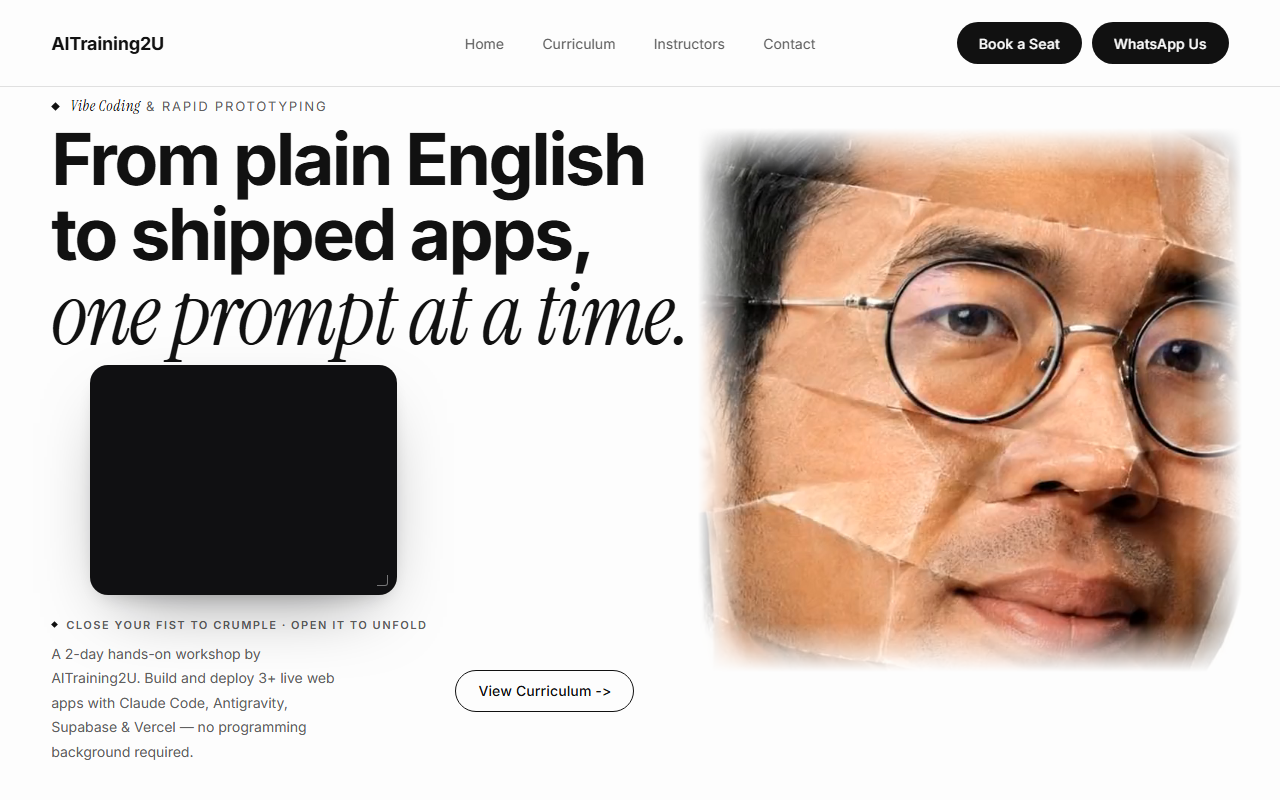
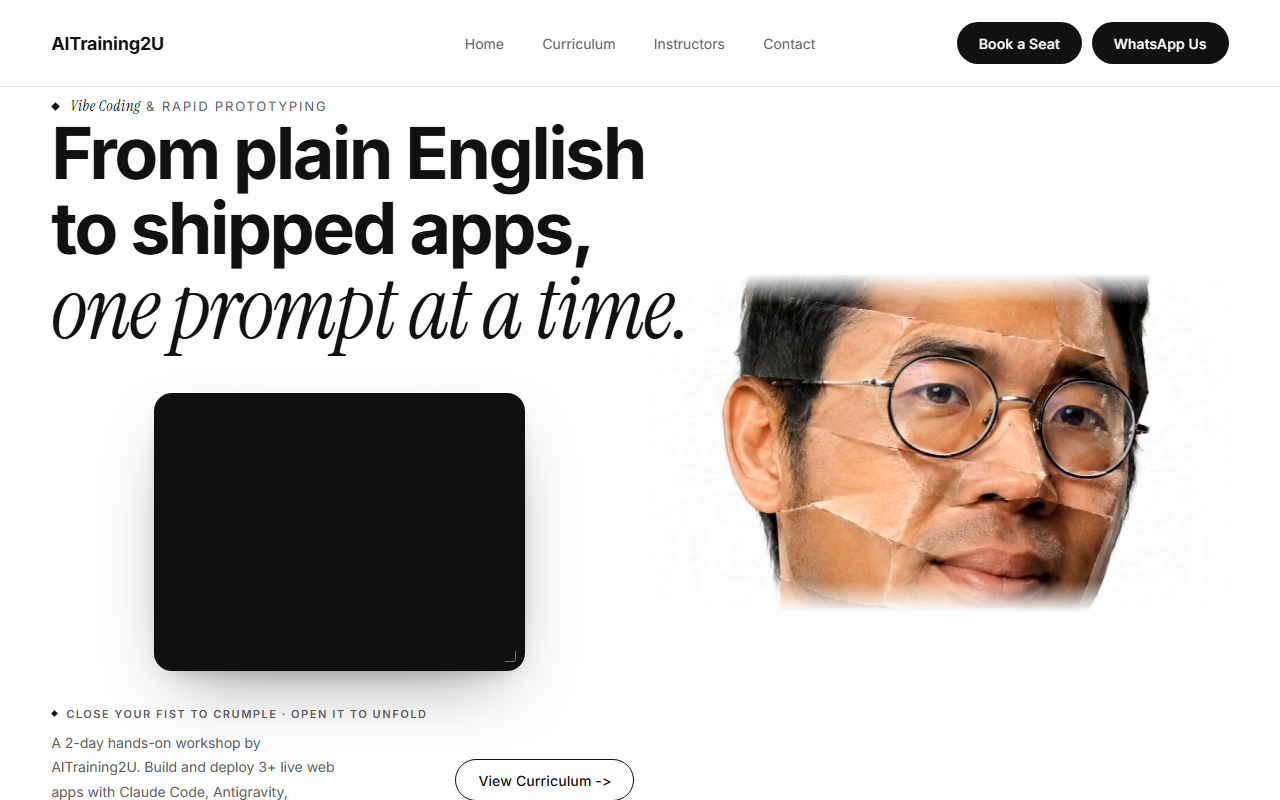
Show the full 16:9 video frame, enlarge and re-space the camera window, and ease gesture/theme transitions

diff --git a/site/style.css b/site/style.css
@@ -135,6 +135,8 @@ a { color: inherit; text-decoration: none; }
 
 .hero__title {
   margin: auto 0; /* vertically centered between tagline and footer */
+  position: relative;
+  z-index: 1; /* headline stays above the video's feathered edge */
   font-size: clamp(40px, 5.6vw, 84px);
   font-weight: 700;
   line-height: 1.04;
@@ -154,10 +156,11 @@ a { color: inherit; text-decoration: none; }
   display: flex;
   flex-direction: column; /* camera on top, copy below */
   align-items: flex-start;
-  gap: 22px;
+  gap: clamp(28px, 4.5vh, 48px); /* breathing room between camera and copy */
+  margin-top: clamp(28px, 5vh, 64px); /* clear the headline above */
 }
 .hero__footer .cam {
-  margin-left: clamp(20px, 3vw, 56px); /* nudge the camera toward the right */
+  margin-left: clamp(48px, 8vw, 150px); /* sit closer to the page center */
 }
 .hero__footer-text {
   display: flex;
@@ -189,8 +192,8 @@ a { color: inherit; text-decoration: none; }
   right: clamp(0px, 3vw, 48px);
   top: 50%;
   transform: translateY(-50%);
-  height: min(68vh, 620px);
-  aspect-ratio: 1 / 1;
+  width: min(47vw, 720px);
+  aspect-ratio: 16 / 9;
   pointer-events: none;
 }
 .hero__media video {
@@ -215,7 +218,7 @@ a { color: inherit; text-decoration: none; }
   position: relative; /* in flow: footer reserves its space */
   z-index: 30;
   flex: none;
-  width: clamp(280px, 24vw, 380px);
+  width: clamp(320px, 29vw, 460px);
   aspect-ratio: 4 / 3;
   border-radius: 18px;
   overflow: hidden;
@@ -559,7 +562,7 @@ a { color: inherit; text-decoration: none; }
     order: 2; /* between title and footer */
     align-self: center;
     height: auto;
-    width: min(72vw, 340px);
+    width: min(90vw, 460px);
   }
   .hero__footer { order: 3; }
   .hero__footer .cam { margin-left: 0; }

diff --git a/site/app.js b/site/app.js
@@ -70,16 +70,22 @@ let ready = false;
   );
 })();
 
+let themeLum = 255; // eased copy of the backdrop luminance
+
 function driveVideo() {
   if (ready && handPresent && !foldVideo.seeking) {
-    smoothProgress += (targetProgress - smoothProgress) * 0.22;
+    smoothProgress += (targetProgress - smoothProgress) * 0.14;
     const t = smoothProgress * Math.max(foldVideo.duration - 0.05, 0);
     if (Math.abs(t - foldVideo.currentTime) > 0.02) {
       foldVideo.currentTime = t; // scrub the timeline in real time
     }
   }
-  // The page theme tracks the frame that's on screen, hand or no hand.
-  if (ready) applyTheme(bgLumAt(foldVideo.currentTime));
+  // The page theme tracks the frame that's on screen, hand or no hand,
+  // eased so fast gestures never make the background snap.
+  if (ready) {
+    themeLum += (bgLumAt(foldVideo.currentTime) - themeLum) * 0.16;
+    applyTheme(themeLum);
+  }
   requestAnimationFrame(driveVideo);
 }
 requestAnimationFrame(driveVideo);
@@ -114,7 +120,7 @@ const lerp = (a, b, t) => a + (b - a) * t;
 let appliedLum = -1;
 
 function applyTheme(lum) {
-  if (Math.abs(lum - appliedLum) < 0.75) return; // skip no-op style recalcs
+  if (Math.abs(lum - appliedLum) < 0.35) return; // skip no-op style recalcs
   appliedLum = lum;
 
   const v = Math.round(lum);